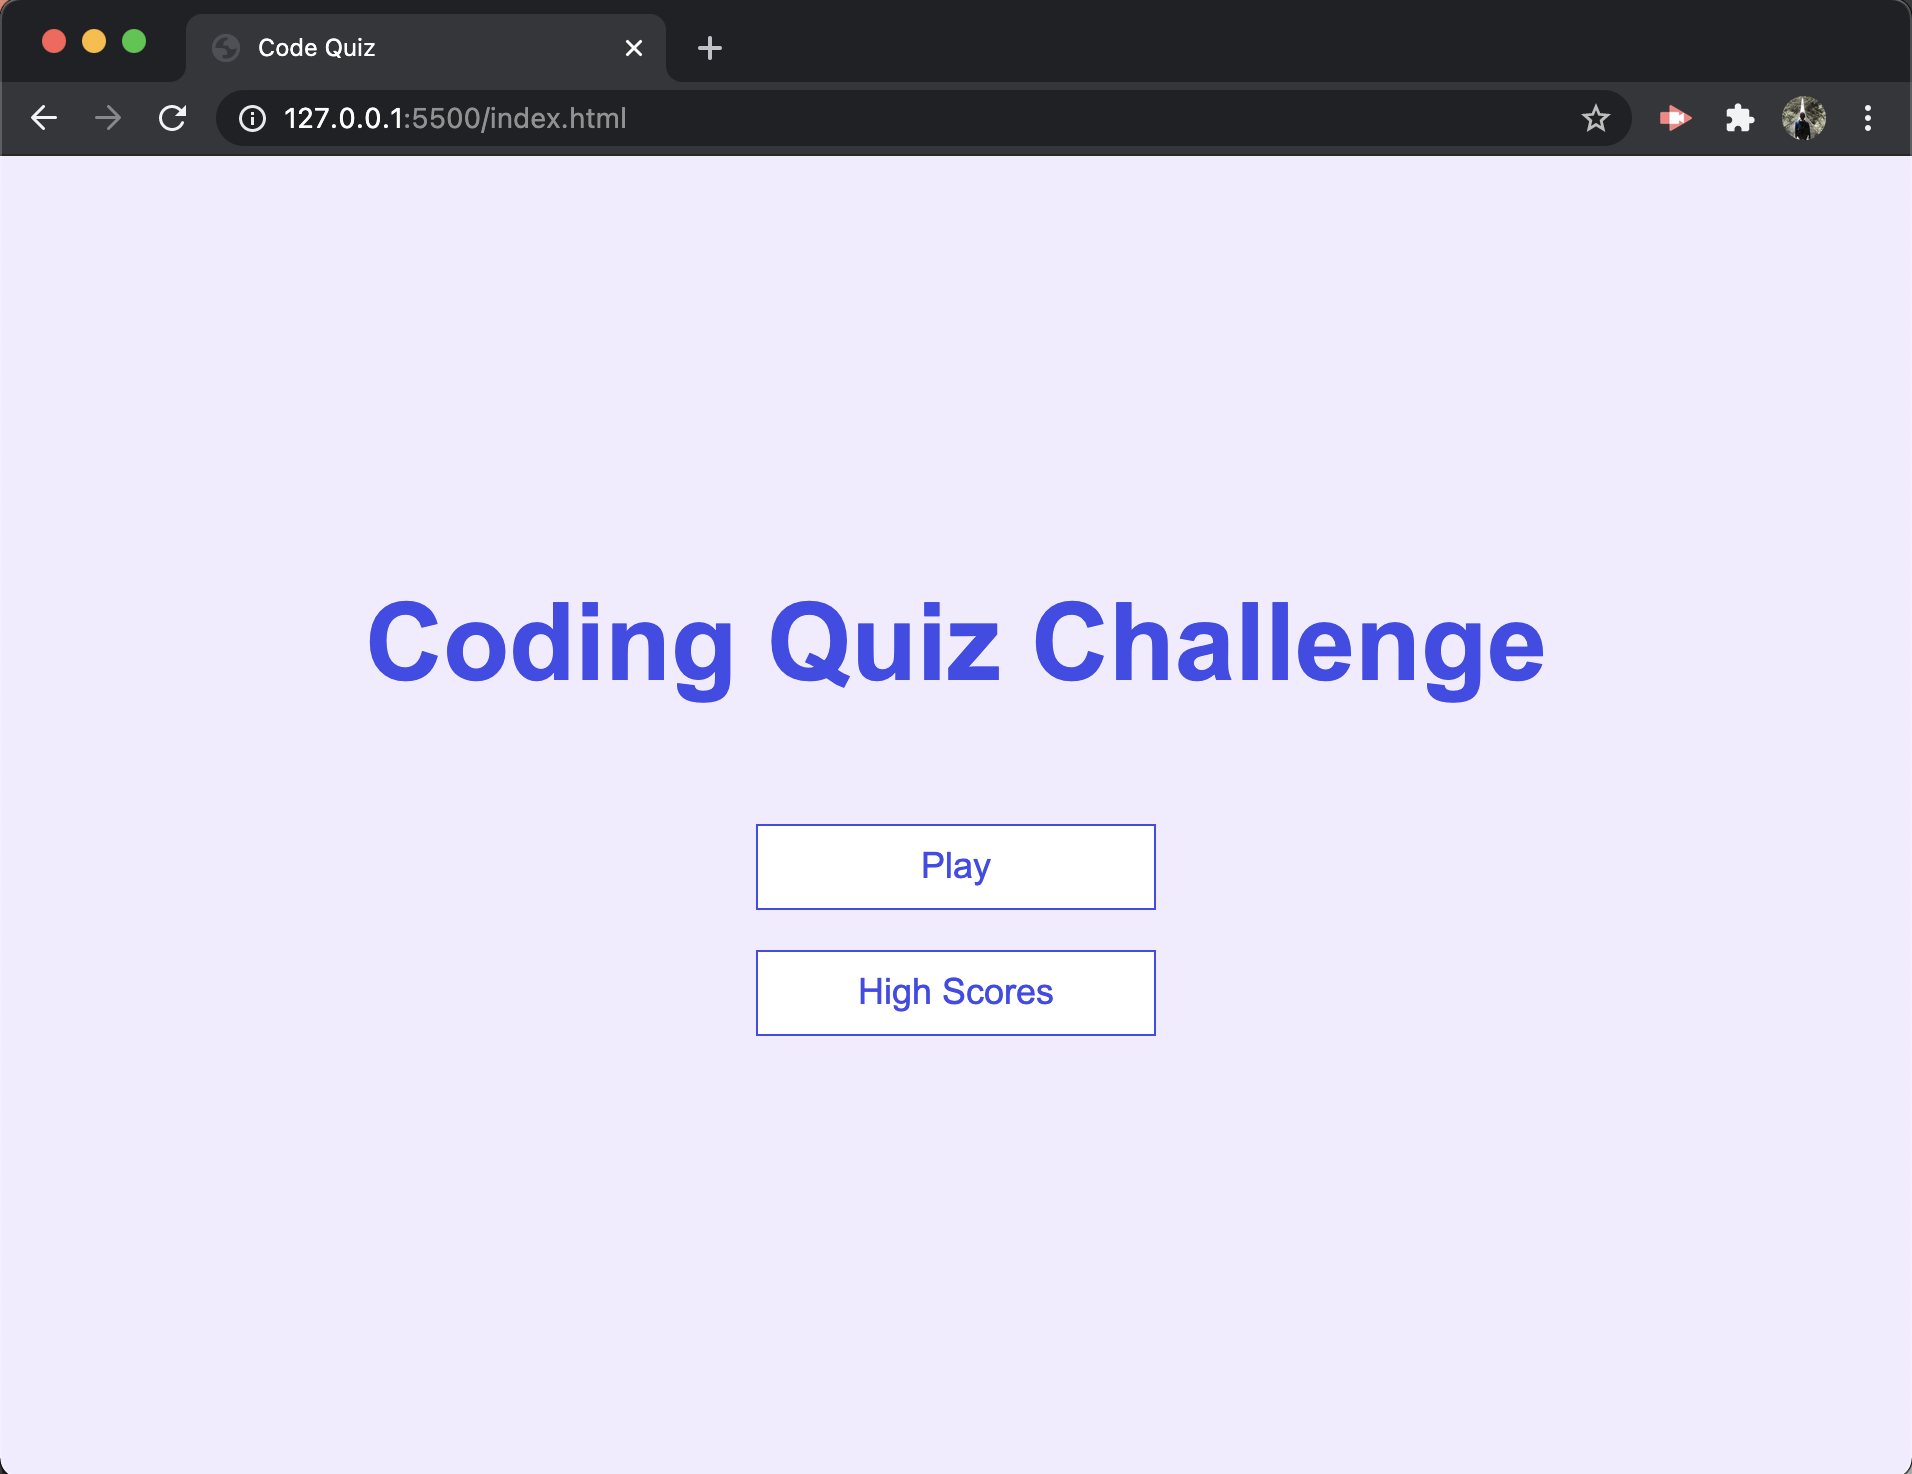
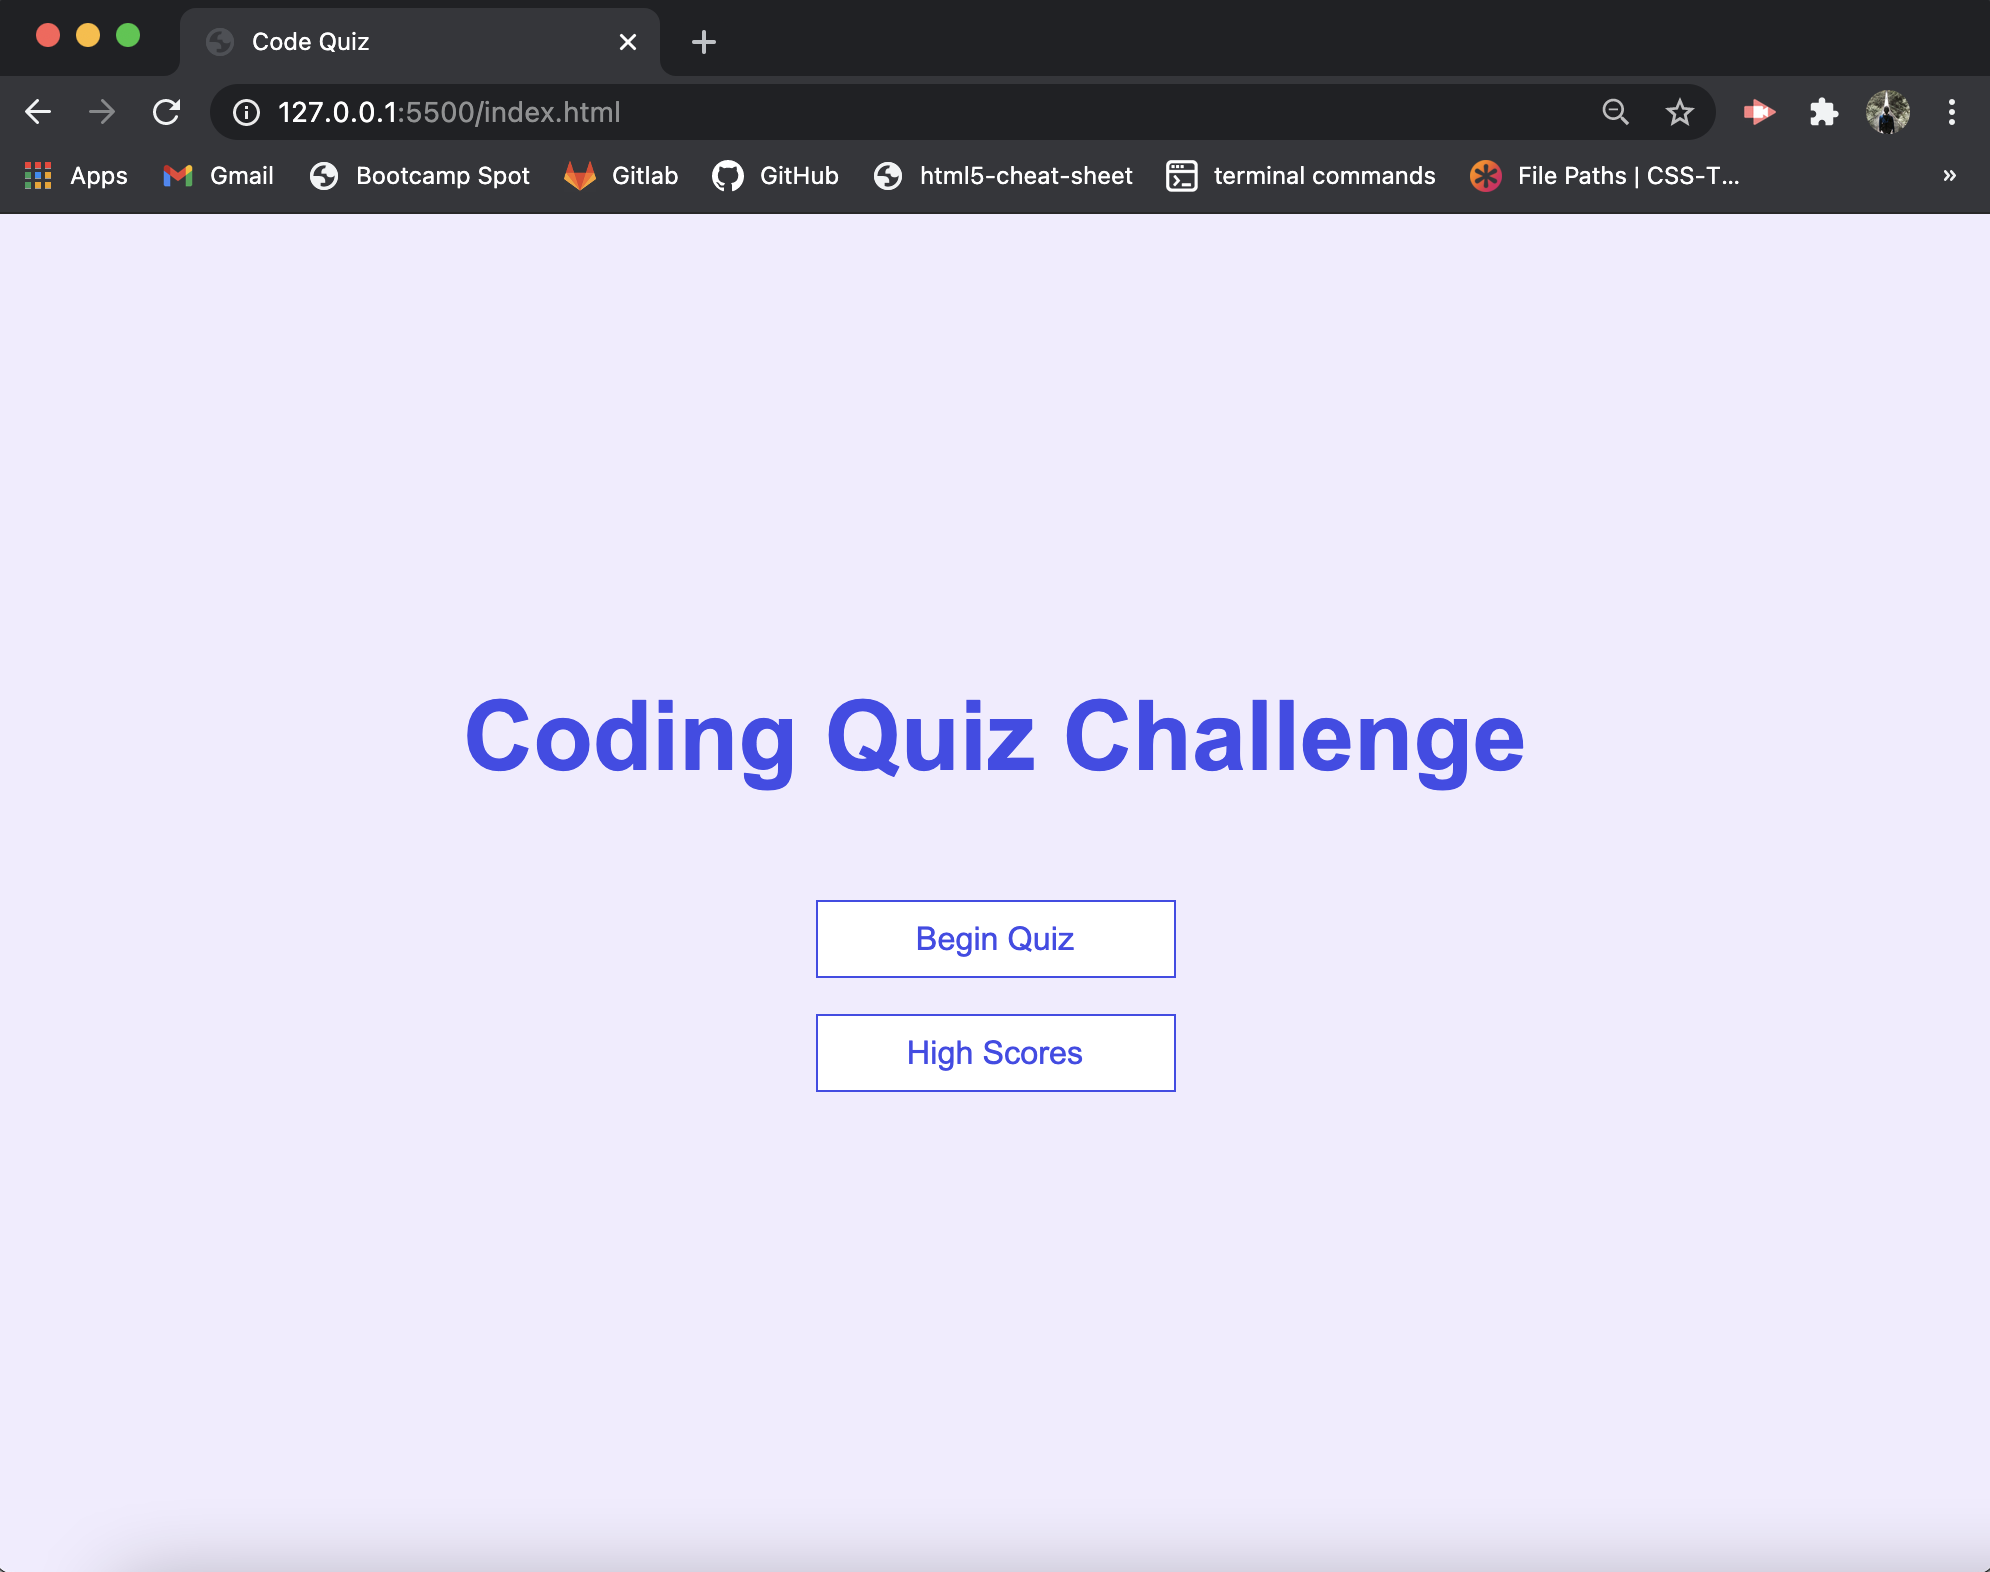
changed start button in index from play to start quiz

diff --git a/index.html b/index.html
@@ -10,7 +10,7 @@
     <div class="container">
         <div id="home" class="flex-center flex-column">
             <h1>Coding Quiz Challenge</h1>
-            <a class="btn" href="quiz.html">Play</a>
+            <a class="btn" href="quiz.html">Begin Quiz</a>
             <a class="btn" href="highscores.html">High Scores</a>
         </div>
     </div>
